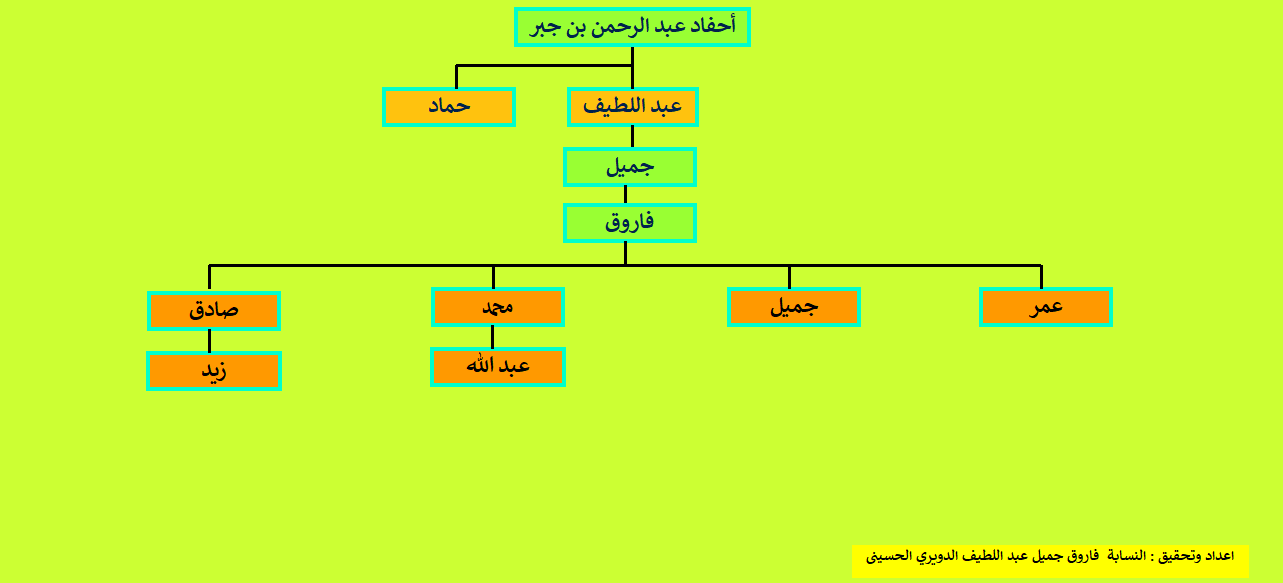
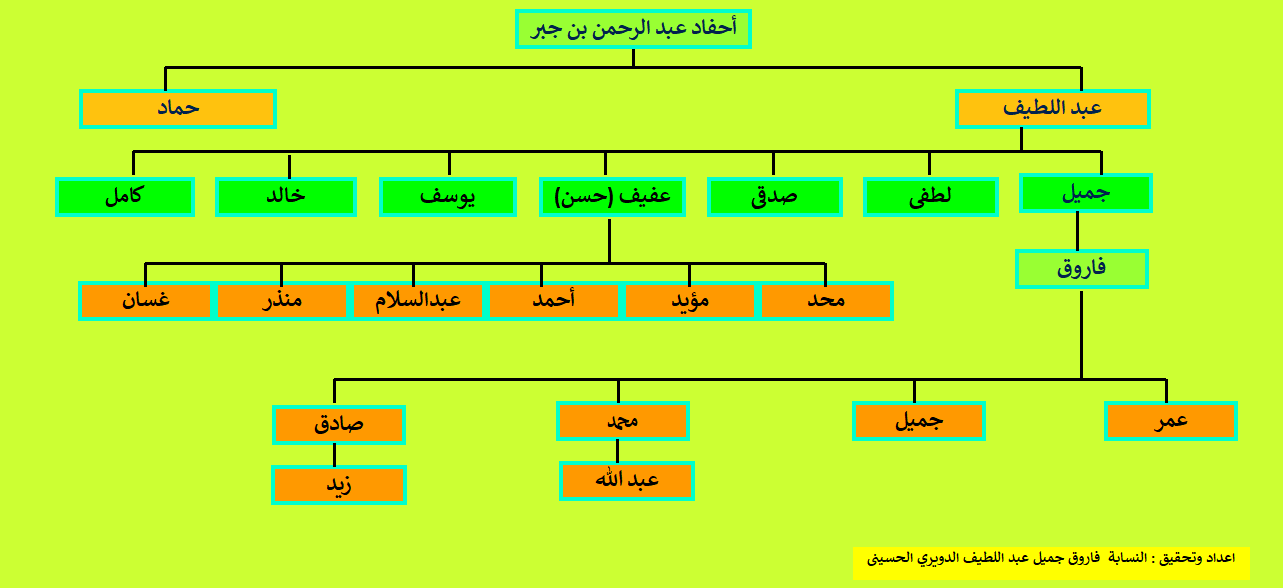
update

diff --git a/dowery6.html b/dowery6.html
@@ -1,0 +1,45 @@
+<!DOCTYPE html PUBLIC "-//W3C//DTD XHTML 1.0 Transitional//EN" "http://www.w3.org/TR/xhtml1/DTD/xhtml1-transitional.dtd">
+<html xmlns="http://www.w3.org/1999/xhtml">
+
+<head>
+<meta content="text/html; charset=utf-8" http-equiv="Content-Type" />
+<title>النسب الحسيني</title>
+<script type="text/javascript">
+<!--
+function FP_preloadImgs() {//v1.0
+ var d=document,a=arguments; if(!d.FP_imgs) d.FP_imgs=new Array();
+ for(var i=0; i<a.length; i++) { d.FP_imgs[i]=new Image; d.FP_imgs[i].src=a[i]; }
+}
+
+function FP_swapImg() {//v1.0
+ var doc=document,args=arguments,elm,n; doc.$imgSwaps=new Array(); for(n=2; n<args.length;
+ n+=2) { elm=FP_getObjectByID(args[n]); if(elm) { doc.$imgSwaps[doc.$imgSwaps.length]=elm;
+ elm.$src=elm.src; elm.src=args[n+1]; } }
+}
+
+function FP_getObjectByID(id,o) {//v1.0
+ var c,el,els,f,m,n; if(!o)o=document; if(o.getElementById) el=o.getElementById(id);
+ else if(o.layers) c=o.layers; else if(o.all) el=o.all[id]; if(el) return el;
+ if(o.id==id || o.name==id) return o; if(o.childNodes) c=o.childNodes; if(c)
+ for(n=0; n<c.length; n++) { el=FP_getObjectByID(id,c[n]); if(el) return el; }
+ f=o.forms; if(f) for(n=0; n<f.length; n++) { els=f[n].elements;
+ for(m=0; m<els.length; m++){ el=FP_getObjectByID(id,els[n]); if(el) return el; } }
+ return null;
+}
+// -->
+</script>
+</head>
+
+<body style="background-color: #CCFF33" onload="FP_preloadImgs(/*url*/'button2109.gif',/*url*/'button2110.gif',/*url*/'button2112.gif',/*url*/'button2113.gif')">
+
+<div id="layer1" style="position: absolute; width: 100px; height: 34px; z-index: 1; left: 871px; top: 506px">
+	<a href="dowery7.html">
+	<img id="img1" alt="الأحفاد" height="20" onmousedown="FP_swapImg(1,0,/*id*/'img1',/*url*/'button2110.gif')" onmouseout="FP_swapImg(0,0,/*id*/'img1',/*url*/'button2111.gif')" onmouseover="FP_swapImg(1,0,/*id*/'img1',/*url*/'button2109.gif')" onmouseup="FP_swapImg(0,0,/*id*/'img1',/*url*/'button2109.gif')" src="button2111.gif" style="border: 0" width="100" /><!-- MSComment="ibutton" fp-style="fp-btn: Metal Capsule 6; fp-font-style: Bold; fp-transparent: 1" fp-title="الأحفاد" --></a></div>
+<div id="layer2" style="position: absolute; width: 118px; height: 35px; z-index: 2; left: 10px; top: 15px">
+	<a href="index1.html">
+	<img id="img2" alt="الأنساب القريشية" height="23" onmousedown="FP_swapImg(1,0,/*id*/'img2',/*url*/'button2113.gif')" onmouseout="FP_swapImg(0,0,/*id*/'img2',/*url*/'button2114.gif')" onmouseover="FP_swapImg(1,0,/*id*/'img2',/*url*/'button2112.gif')" onmouseup="FP_swapImg(0,0,/*id*/'img2',/*url*/'button2112.gif')" src="button2114.gif" style="border: 0" width="113" /><!-- MSComment="ibutton" fp-style="fp-btn: Metal Capsule 3; fp-font-style: Bold; fp-transparent: 1" fp-title="الأنساب القريشية" --></a></div>
+<img alt="" height="591" src="dowery6.png" width="1279" />
+
+</body>
+
+</html>

diff --git a/dowery7.html b/dowery7.html
@@ -1,0 +1,42 @@
+<!DOCTYPE html PUBLIC "-//W3C//DTD XHTML 1.0 Transitional//EN" "http://www.w3.org/TR/xhtml1/DTD/xhtml1-transitional.dtd">
+<html xmlns="http://www.w3.org/1999/xhtml">
+
+<head>
+<meta content="text/html; charset=utf-8" http-equiv="Content-Type" />
+<title>النسب الحسيني</title>
+<script type="text/javascript">
+<!--
+function FP_preloadImgs() {//v1.0
+ var d=document,a=arguments; if(!d.FP_imgs) d.FP_imgs=new Array();
+ for(var i=0; i<a.length; i++) { d.FP_imgs[i]=new Image; d.FP_imgs[i].src=a[i]; }
+}
+
+function FP_swapImg() {//v1.0
+ var doc=document,args=arguments,elm,n; doc.$imgSwaps=new Array(); for(n=2; n<args.length;
+ n+=2) { elm=FP_getObjectByID(args[n]); if(elm) { doc.$imgSwaps[doc.$imgSwaps.length]=elm;
+ elm.$src=elm.src; elm.src=args[n+1]; } }
+}
+
+function FP_getObjectByID(id,o) {//v1.0
+ var c,el,els,f,m,n; if(!o)o=document; if(o.getElementById) el=o.getElementById(id);
+ else if(o.layers) c=o.layers; else if(o.all) el=o.all[id]; if(el) return el;
+ if(o.id==id || o.name==id) return o; if(o.childNodes) c=o.childNodes; if(c)
+ for(n=0; n<c.length; n++) { el=FP_getObjectByID(id,c[n]); if(el) return el; }
+ f=o.forms; if(f) for(n=0; n<f.length; n++) { els=f[n].elements;
+ for(m=0; m<els.length; m++){ el=FP_getObjectByID(id,els[n]); if(el) return el; } }
+ return null;
+}
+// -->
+</script>
+</head>
+
+<body style="background-color: #CCFF33" onload="FP_preloadImgs(/*url*/'button2115.gif',/*url*/'button2116.gif')">
+
+<div id="layer1" style="position: absolute; width: 117px; height: 39px; z-index: 1; left: 10px; top: 15px">
+	<a href="index1.html">
+	<img id="img1" alt="الأنساب القريشية" height="23" onmousedown="FP_swapImg(1,0,/*id*/'img1',/*url*/'button2116.gif')" onmouseout="FP_swapImg(0,0,/*id*/'img1',/*url*/'button2117.gif')" onmouseover="FP_swapImg(1,0,/*id*/'img1',/*url*/'button2115.gif')" onmouseup="FP_swapImg(0,0,/*id*/'img1',/*url*/'button2115.gif')" src="button2117.gif" style="border: 0" width="113" /><!-- MSComment="ibutton" fp-style="fp-btn: Metal Capsule 3; fp-font-style: Bold; fp-transparent: 1" fp-title="الأنساب القريشية" --></a></div>
+<img alt="" height="591" src="dowery7.png" width="1285" />
+
+</body>
+
+</html>

diff --git a/dowery2.html b/dowery2.html
@@ -30,7 +30,7 @@ function FP_getObjectByID(id,o) {//v1.0
 </script>
 </head>
 
-<body style="background-color: #CCFF33" onload="FP_preloadImgs(/*url*/'button2052.gif',/*url*/'button2053.gif',/*url*/'buttonF53.gif',/*url*/'button2054.gif',/*url*/'button2055.gif',/*url*/'button2056.gif',/*url*/'button1B17.gif',/*url*/'button1C16.gif')">
+<body style="background-color: #CCFF33" onload="FP_preloadImgs(/*url*/'button2052.gif',/*url*/'button2053.gif',/*url*/'buttonF53.gif',/*url*/'button2054.gif',/*url*/'button2055.gif',/*url*/'button2056.gif',/*url*/'button1B17.gif',/*url*/'button1C16.gif',/*url*/'button2106.gif',/*url*/'button2107.gif')">
 
 <div id="layer1" style="position: absolute; width: 100px; height: 26px; z-index: 1; left: 1102px; top: 524px">
 	<a href="dowery3.html">
@@ -44,6 +44,9 @@ function FP_getObjectByID(id,o) {//v1.0
 <div id="layer4" style="position: absolute; width: 120px; height: 42px; z-index: 4; left: 19px; top: 27px">
 	<a href="index1.html">
 	<img id="img4" alt="الأنساب القريشية" height="23" onmousedown="FP_swapImg(1,0,/*id*/'img4',/*url*/'button1C16.gif')" onmouseout="FP_swapImg(0,0,/*id*/'img4',/*url*/'button1A15.gif')" onmouseover="FP_swapImg(1,0,/*id*/'img4',/*url*/'button1B17.gif')" onmouseup="FP_swapImg(0,0,/*id*/'img4',/*url*/'button1B17.gif')" src="button1A15.gif" style="border: 0" width="113" /><!-- MSComment="ibutton" fp-style="fp-btn: Metal Capsule 3; fp-font-style: Bold; fp-transparent: 1" fp-title="الأنساب القريشية" --></a></div>
+<div id="layer5" style="position: absolute; width: 100px; height: 29px; z-index: 5; left: 220px; top: 147px">
+	<a href="dowery6.html">
+	<img id="img5" alt="الأحفاد" height="20" onmousedown="FP_swapImg(1,0,/*id*/'img5',/*url*/'button2107.gif')" onmouseout="FP_swapImg(0,0,/*id*/'img5',/*url*/'button2108.gif')" onmouseover="FP_swapImg(1,0,/*id*/'img5',/*url*/'button2106.gif')" onmouseup="FP_swapImg(0,0,/*id*/'img5',/*url*/'button2106.gif')" src="button2108.gif" style="border: 0" width="100" /><!-- MSComment="ibutton" fp-style="fp-btn: Metal Capsule 6; fp-font-style: Bold; fp-transparent: 1" fp-title="الأحفاد" --></a></div>
 <img alt="" height="584" src="dowery2.png" width="1279" />
 
 </body>
